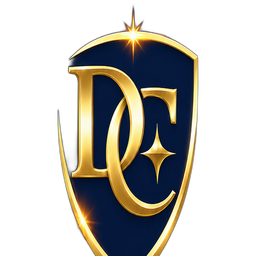
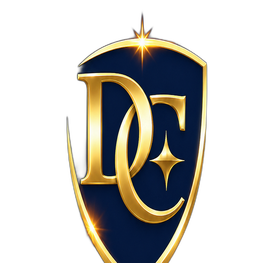
fix(mobile): replace shield PNG with properly square-cropped version, explicit 52x52 render

Changed region(s): [[0.2188, 0.0312, 0.7812, 1.0], [0.4688, 0.3438, 0.5, 0.4062]]

diff --git a/client/src/components/AdminTopNav.tsx b/client/src/components/AdminTopNav.tsx
@@ -250,7 +250,7 @@ export default function AdminTopNav({ onToggleSidebar, currentPath }: AdminTopNa
               src="/dru-shield-transparent.png"
               alt="DRU CLEAR™"
               className="dru-logo-shield"
-              style={{ height: 52, width: 'auto', objectFit: 'contain', flexShrink: 0 }}
+              style={{ width: 52, height: 52, objectFit: 'contain', flexShrink: 0 }}
             />
           </a>
         </div>
